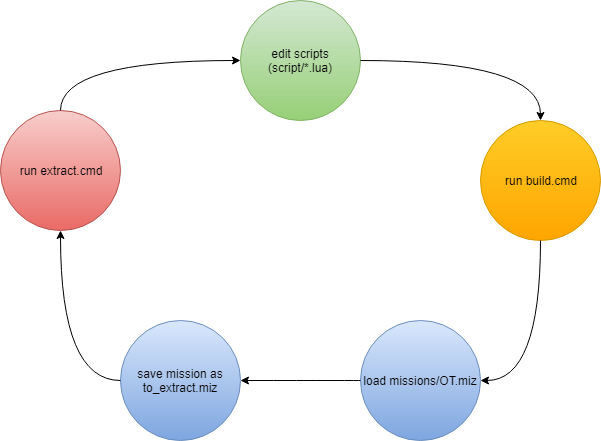
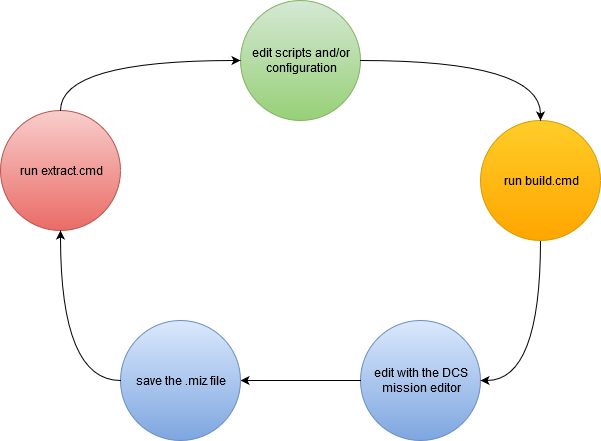
DOC: wip

diff --git a/documentation/content/_index.md b/documentation/content/_index.md
@@ -1,10 +1,81 @@
-# VEAF Mission Creation Tools - Documentation
++++
+title = "VEAF Mission Creation Tools"
+weight = 2
+chapter = false
++++
 
-TODO
+## Introduction
 
-## Questions, feature requests, bug reports ?
+The VEAF Mission Creation Tools contains tools and scripts designed to make it easy to create, share and maintain dynamic missions.
 
-TODO forum, github, mail
+It is composed of:
+
+* the VEAF scripts (modules)
+* the community scripts, sometimes edited by VEAF
+* a mission creation, edition and publication workflow
+* tools to support this workflow
+* this documentation
+
+## Roles
+
+When you have an interest in the VEAF Mission Creation Tools, you may be a mission programmer or a mission maker.
+
+Mission makers want to use the tools to create, share and maintain a mission.
+
+Mission programmers help us maintain and enhance the tools by adding features, correcting bugs, configuring new data.
+
+### How to use the tools as a mission maker
+
+Please have a look at the [Misson Maker documentation](/Mission maker/).
+
+For those looking for a quick start, read the [demo mission](demo mission.md) page to learn how you can fork the demo repository and create your own mission.
+
+### How to participate to the development of the tools
+
+The [Misson Programmer documentation](/Mission programmer/) details all you need to know about that.
+
+You can contact us, we'll guide you into our community.
+
+## Workflow
+
+All missions that use the VEAF Mission Creation Tools share some base concepts:
+
+* they integrate (some of) the VEAF and community scripts in a load trigger
+* they initialize and configure these scripts in another trigger
+* they share a few conventions when naming units and groups
+
+This is easier if the mission folder is organized like that:
+
+* *src* - all the mission source files
+* *src/mission* - the mission definition (the lua files created by the DCS mission editor and originally compressed into a zipped *.miz* file)
+* *src/scripts* - (optional) the custom scripts used to configure the VEAF modules specifically for this mission
+* *src/radioSettings.lua* - (optional) the radio frequencies that will be injected
+* *build.cmd* - the build script is responsible for creating the *.miz* file that will contain all the lua definitions, the scripts, the configuration files, etc.
+* *extract.cmd* - this script will extract the lua definition files from a *.miz* file freshly edited with the DCS mission editor
+* *package.json* - this allows the build and extract scripts to download the latest version of the VEAF Mission Creation Tools
+
+The easiest way to create such a folder is to fork the demo mission provided by us (please read the [demo mission](demo mission.md) page).
+
+When working on the mission, always follow this workflow:
+
+![workflow-01](/VEAF-Mission-Creation-Tools/images/editor_workflow.png?raw=true "workflow-01")
+
+First, create a mission in the DCS mission editor, and save it in the main folder of your mission (alongside the _build_ and _extract_ scripts)
+
+1. run the _extract_ script to put all the lua definition files in the _src_ folder
+2. edit the configuration scripts, the radio presets configuration, update the VEAF Mission Creation Tools, etc.
+3. run the _build_ script to assemble all the scripts, the configuration files, and the mission into a _.miz_ file; it'll be generated in the _build_ folder
+4. edit the _.miz_ file with the DCS mission editor
+5. -> back to step 1; rinse and repeat.
+
+## Questions, feature requests, bug reports
+
+There are several ways of getting in touch with the VEAF:
+
+* we have a [very nice forum](https://community.veaf.org)
+* you can create issues and pull requests on the [GitHub repository](https://github.com/VEAF/VEAF-Mission-Creation-Tools)
+* our Discord server can be used to chat (both text and voice) with the VEAF members and developpers; we're nice people and some of us even speak english ^^
+* you can send [emails](mailto:veaf@gmail.com) to the VEAF; they won't be read everyday, so please try and use one of the other communication mediums.
 
 ## Hall of fame
 
